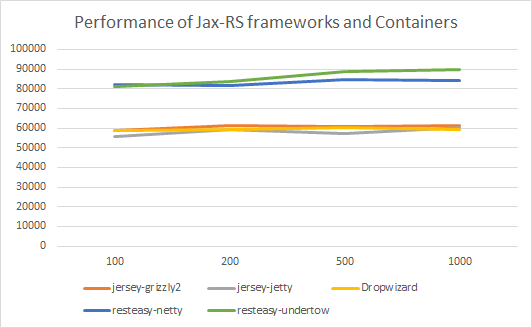
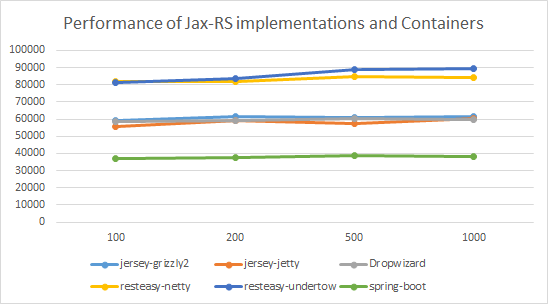
add spring boot application and its test result.

diff --git a/springboot/src/main/java/com/colobu/rest/springboot/HelloController.java b/springboot/src/main/java/com/colobu/rest/springboot/HelloController.java
@@ -1,0 +1,17 @@
+package com.colobu.rest.springboot;
+
+import org.springframework.boot.autoconfigure.EnableAutoConfiguration;
+import org.springframework.web.bind.annotation.RequestMapping;
+import org.springframework.web.bind.annotation.ResponseBody;
+import org.springframework.web.bind.annotation.RestController;
+
+@RestController
+@EnableAutoConfiguration
+public class HelloController {
+
+    @RequestMapping("/hello")
+    @ResponseBody
+    String hello() {
+        return "Hello World";
+    }
+}

diff --git a/springboot/src/main/java/com/colobu/rest/springboot/Main.java b/springboot/src/main/java/com/colobu/rest/springboot/Main.java
@@ -1,0 +1,10 @@
+package com.colobu.rest.springboot;
+
+
+import org.springframework.boot.SpringApplication;
+
+public class Main {
+    public static void main(String[] args) throws Exception {
+        SpringApplication.run(HelloController.class, args);
+    }
+}

diff --git a/TestData.md b/TestData.md
@@ -216,6 +216,49 @@ Transfer/sec:      6.42MB
 ```
 
 
+### spring boot 1.3.0.RELEASE
+[smallnest@ip-xxx-xxx-xxx-xxx ~]# wrk -t16 -c100 -d30s http://127.0.0.1:8080/hello
+Running 30s test @ http://127.0.0.1:8080/hello
+  16 threads and 100 connections
+  Thread Stats   Avg      Stdev     Max   +/- Stdev
+    Latency     3.39ms    4.10ms  58.23ms   90.89%
+    Req/Sec     2.31k   301.34     6.31k    70.86%
+  1107622 requests in 30.10s, 162.87MB read
+Requests/sec:  36799.74
+Transfer/sec:      5.41MB
+
+[smallnest@ip-xxx-xxx-xxx-xxx ~]# wrk -t16 -c200 -d30s http://127.0.0.1:8080/hello 
+Running 30s test @ http://127.0.0.1:8080/hello
+  16 threads and 200 connections
+  Thread Stats   Avg      Stdev     Max   +/- Stdev
+    Latency     6.34ms    8.62ms 125.04ms   95.44%
+    Req/Sec     2.38k   263.37     6.62k    75.76%
+  1138849 requests in 30.09s, 167.46MB read
+Requests/sec:  37847.67
+Transfer/sec:      5.57MB
+
+[smallnest@ip-xxx-xxx-xxx-xxx ~]# wrk -t16 -c500 -d30s http://127.0.0.1:8080/hello 
+Running 30s test @ http://127.0.0.1:8080/hello
+  16 threads and 500 connections
+  Thread Stats   Avg      Stdev     Max   +/- Stdev
+    Latency    12.99ms    5.43ms 123.32ms   82.28%
+    Req/Sec     2.43k   183.80     5.77k    76.53%
+  1161165 requests in 30.09s, 170.74MB read
+Requests/sec:  38592.82
+Transfer/sec:      5.67MB
+
+[smallnest@ip-xxx-xxx-xxx-xxx ~]# wrk -t16 -c1000 -d30s http://127.0.0.1:8080/hello 
+Running 30s test @ http://127.0.0.1:8080/hello
+  16 threads and 1000 connections
+  Thread Stats   Avg      Stdev     Max   +/- Stdev
+    Latency    25.73ms    4.36ms  72.17ms   78.96%
+    Req/Sec     2.42k   177.95     6.94k    80.52%
+  1156937 requests in 30.10s, 170.11MB read
+Requests/sec:  38436.42
+Transfer/sec:      5.65MB
+
+
+
 
 
 

diff --git a/README.md b/README.md
@@ -7,6 +7,7 @@ Personally, I perfer jax-rs implementations and micro frameworks for deploying a
 So I have test five Jax-RS implementations plus embedded containers despite business logics. The RESTful service is very simple and it only returns a "hello world" string. Remember,  tests don't contain any business logics even JSON libraries.
 There are other articles to dicuss serialization framework. For example, [my test](http://colobu.com/2014/08/26/java-serializer-comparison/)
 
+> I have added test result for spring boot since some one want to know why Spring boot framework is my choice.
 ### Compile applications
 It is a multiple-module maven project.
 You can run "mvn package" in parent directory to packge each module.
@@ -34,6 +35,7 @@ java -Xmx4g -Xms4g -jar jersey-jetty-1.0-SNAPSHOT.jar
 java -Xmx4g -Xms4g -jar dropwizard-1.0-SNAPSHOT.jar hello.yml 
 java -Xmx4g -Xms4g -jar resteasy-netty-1.0-SNAPSHOT.jar 
 java -Xmx4g -Xms4g -jar resteasy-undertow-1.0-SNAPSHOT.jar
+java -Xmx4g -Xms4g -jar springboot-1.0-SNAPSHOT.jar
 ```
 
 ### Test Result
@@ -46,5 +48,6 @@ It looks Resteasy is better than jersey whatever jersey uses grizzly2 or jetty c
 It is predictable that performance of dropwizard is same to jersey+jetty.
 Resteasy is excellent in undertow and netty.
 To my surprise is resteasy+undertow is a little better than resteasy+netty. Maybe they are all developed by JBoss and they have done some optimization.
+I do not recommend you use spring boot in large projects.
 
 I have not monitored the CPU usage and memory usage. You can try it. 
